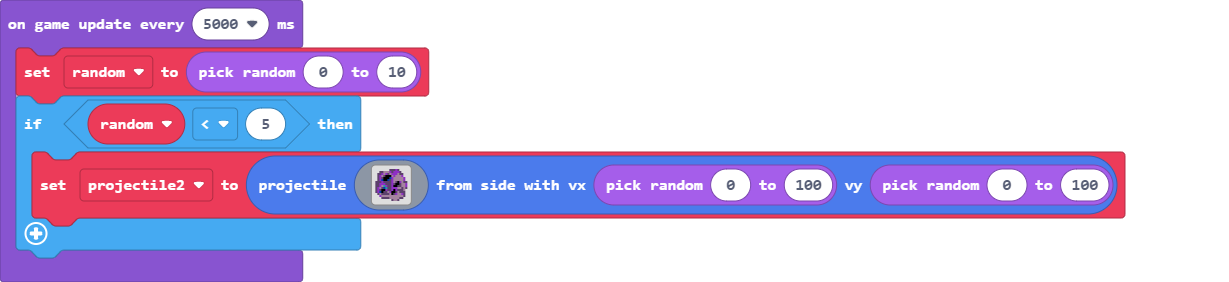
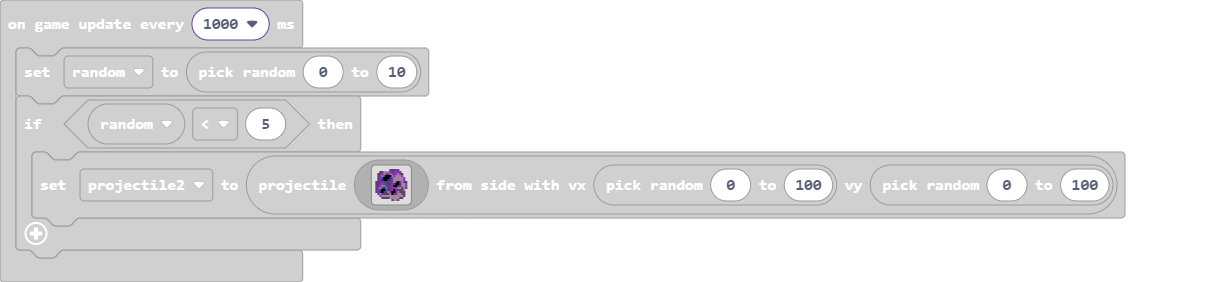
Update pxt.json, main.blocks, main.ts

diff --git a/main.ts b/main.ts
@@ -302,7 +302,7 @@ D = sprites.create(img`
     `, SpriteKind.Player)
 D.setPosition(17, 62)
 D.sayText(":)")
-game.onUpdateInterval(5000, function () {
+game.onUpdateInterval(1000, function () {
     random = randint(0, 10)
     if (random < 5) {
         projectile2 = sprites.createProjectileFromSide(img`
